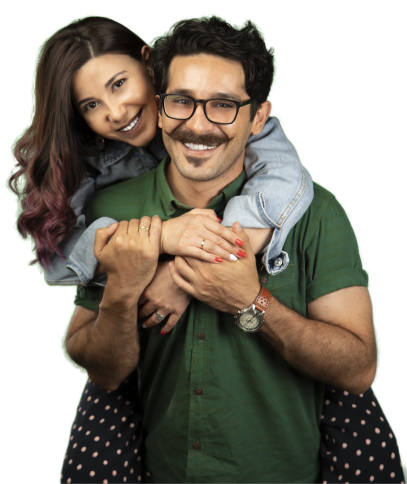
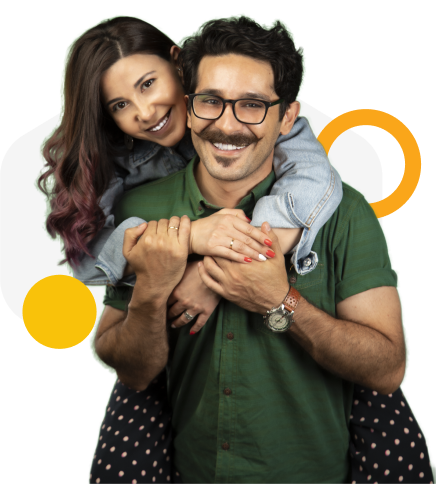
hero-section added

diff --git a/pages/index.html b/pages/index.html
@@ -26,26 +26,26 @@
             <div class="collapse navbar-collapse" id="navbarNav">
                 <ul class="navbar-nav mx-auto">
                     <li class="nav-item">
-                        <a class="nav-link title4" #">Loan Types</a>
+                        <a class="nav-link title4" href="#">Loan Types</a>
                     </li>
                     <li class="nav-item">
-                        <a class="nav-link title4" #">Loan Calculator</a>
+                        <a class="nav-link title4" href="#">Loan Calculator</a>
                     </li>
                     <li class="nav-item">
                         <a class="nav-link title4" href="#">Resources</a>
                     </li>
                     <li class="nav-item">
-                        <a class="nav-link title4" #">Our Company</a>
+                        <a class="nav-link title4" href="#">Our Company</a>
                     </li>
                 </ul>
                 <ul class="navbar-nav ml-auto">
                     <li class="nav-item">
-                        <a class="nav-link title4" #">
+                        <a class="nav-link title4" href="#">
                             <button class="custom-button">Log in</button>
                         </a>
                     </li>
                     <li class="nav-item">
-                        <a class="nav-link title4" #">
+                        <a class="nav-link title4" href="#">
                             <button class="custom-button withblue">Sign up</button>
                         </a>
                     </li>
@@ -54,7 +54,7 @@
         </div>
     </nav>
     </header>
-    <div class="hero-section container">
+    <div class="hero-section container-md">
         <div class="text-button">
             <h1 class="display2">
                 Move money today, mountains tomorrow
@@ -63,11 +63,12 @@
                 Lorem ipsum dolor sit amet, consectetur adipiscing elit, sed do eiusmod tempor incididunt ut labore et
                 dolore magna.
             </h5>
+            <a class="hero-button" href="#">
+                <button class= "button-light">Get started</button>
+            </a>
         </div>
         <div class="right">
             <img src="../public/images/couple-image.png" alt="">
-            <div class="circle"></div>
-            <div class="polygon"></div>
         </div>
         <script src="https://cdn.jsdelivr.net/npm/bootstrap@5.3.0/dist/js/bootstrap.bundle.min.js"
             integrity="sha384-geWF76RCwLtnZ8qwWowPQNguL3RmwHVBC9FhGdlKrxdiJJigb/j/68SIy3Te4Bkz"

diff --git a/style/style.css b/style/style.css
@@ -31,6 +31,7 @@ h3 {
   margin-bottom: 5px;
 }
 
+/* header */
 .navbar-brand img {
   width: 366.638px !important;
   height: 32px !important;
@@ -73,6 +74,9 @@ h3 {
   font-family: Montserrat;
   font-weight: 700;
 }
+/* header */
+
+/* hero-section */
 
 .hero-section {
   display: flex;
@@ -90,10 +94,10 @@ h3 {
   align-items: flex-start;
   gap: 32px;
   align-self: stretch;
-  width: 50%
+  width: 50%;
 }
 
-.display2{
+.display2 {
   color: var(--typography-primary, #0b1323);
   /* Display 2 */
   font-size: 40px;
@@ -109,3 +113,28 @@ h3 {
   flex: 1 0 0;
   align-self: stretch;
 }
+
+
+
+.button-light {
+  display: flex;
+  width: 282px;
+  height: 56px;
+  flex-direction: column;
+  justify-content: center;
+  align-items: center;
+  flex: 1 0 0;
+  gap: 32px;
+  border-radius: 8px;
+  background: var(--blue, #1635c3);
+  color: #fff;
+  border: none;
+
+  /* Label 1 */
+  font-size: 14px;
+  font-family: Montserrat;
+  font-weight: 500;
+}
+
+
+/* hero-section */
